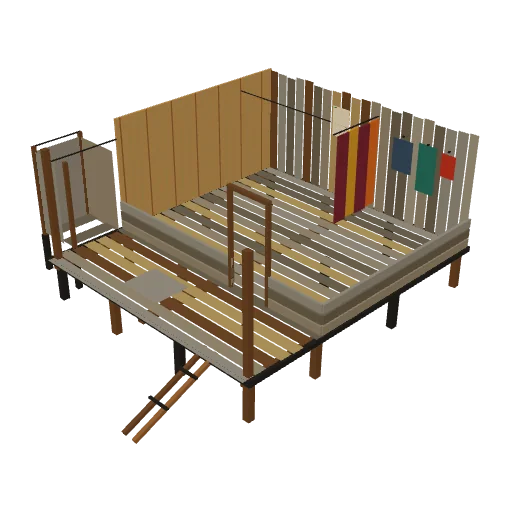
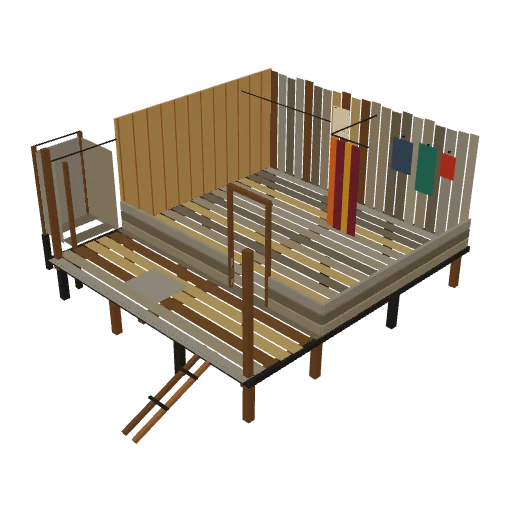
Makoko's room on the water faces its curtain to the view and stands its neighbours back; the net shed's view sees under its roof

diff --git a/models/buildings/makoko-house/water.ts b/models/buildings/makoko-house/water.ts
@@ -141,7 +141,7 @@ function fullWall(g: Object3D, wall: Side, random: () => number, floor: number, 
   const { frame, length } = frameOf(g, wall, floor);
   const holes = holesOf(wall);
   for (const [a, b] of spans(length, holes)) {
-    if (wall.kind === "bamboo") bambooSpan(frame, a, b, walls, faces, faces === 2 ? 0.2 : 0.16);
+    if (wall.kind === "bamboo") bambooSpan(frame, a, b, walls, faces, faces === 2 ? 0.11 : 0.16);
     else plankSpan(frame, random, a, b, walls, faces);
   }
   if (wall.kind === "patched") patch(frame, faces);
@@ -354,17 +354,14 @@ export const ROOM_SPOTS = {
   net: [2.1, 2.2],
 } as const;
 
-/** A wrapper hung as a curtain across the room's back right corner, on its rope; and the mosquito net's rope across. */
+/** A wrapper hung as a curtain across the room's back right corner, half drawn on its rope; and the mosquito net's rope across. */
 function curtain(g: Group, floor: number): void {
   const { back } = waterLines();
-  const from: [number, number] = [0.35, back + 0.05];
-  const to: [number, number] = [0.35, back + 1.35];
-  beam(g, [from[0], floor + 1.95, from[1]], [to[0], floor + 1.95, to[1]], 0.02, "black");
+  const z = back + 1.35;
+  beam(g, [0.3, floor + 1.95, back + 0.05], [0.3, floor + 1.95, z], 0.02, "black");
+  beam(g, [0.3, floor + 1.95, z], [1.15, floor + 1.95, z], 0.02, "black");
   const bands: PaletteName[] = ["orange", "wine", "gold", "wine"];
-  bands.forEach((colour, i) => {
-    const z = from[1] + 0.15 + i * 0.3;
-    box(g, 0.03, 1.75, 0.3, from[0] + (i % 2) * 0.03, floor + 0.15, z, colour);
-  });
+  bands.forEach((colour, i) => box(g, 0.17, 1.75, 0.03, 0.39 + i * 0.17, floor + 0.15, z + (i % 2) * 0.03, colour));
   // The rope the net hangs from, wall to wall over the mattress.
   beam(g, [-WATER_HOUSE.width / 2 + 0.05, floor + 1.95, back + 0.9], [-0.1, floor + 1.95, back + 0.9], 0.015, "black");
 }
